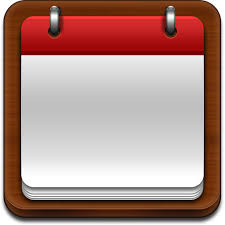
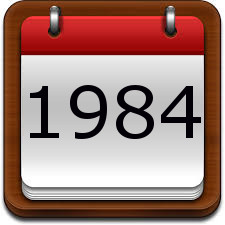
Pictures are now present on the My World and Sills area. Tool Tips are present of the Skills pictures

Changed region(s): [[0.3111, 0.3733, 0.6844, 0.6222], [0.7156, 0.3733, 0.9022, 0.6222], [0.1244, 0.3733, 0.28, 0.6222]]

diff --git a/index.html b/index.html
@@ -88,77 +88,122 @@
 		<h1 class="heading">Skills</h1>
 			<div class="row container">
 				<div class="col-lg-4 col-sm-6">
-					<a href="#skills" data-toggle="tooltip" title="Baby Jason was born!" alt="Baby Jason was born!">
-						<img src="images/1984.jpg"></img>
+					<a href="#skills" data-toggle="tooltip">
+						<img src="images/1984.jpg" title="Baby Jason was born!" alt="Baby Jason was born!">
 					</a>
 				</div>
 			
 			<!--Arrow-->
 			<!--2003-->
 				<div class="col-lg-4 col-sm-6">
-					<a href="#skills" data-toggle="tooltip" title="Graduated High School" alt="Graduated High School">
-						<img src="images/1984.jpg"></img>
+					<a href="#skills" data-toggle="tooltip">
+						<img src="images/2003.jpg" title="Graduated High School" alt="Graduated High School">
 					</a>
 				</div>
 				
-			<!--Arrow-->
-			<!--2004-->
+			<!--Arrow
+				 2004
 				<div class="col-lg-4 col-sm-6">
 					<a href="#skills" data-toggle="tooltip" title="Completed Commercial Dive School Program" alt="Completed Commercial Dive School Program">
-						<img src="images/1984.jpg"></img>
+						<img src="images/2004.jpg"></img>
 					</a>
-				</div>
-			</div>
-		<!--Arrow-->
+				</div> 
+				Arrow-->
 		
 		<!--Circle 2005-->
-		<p>Repaired boat docks as a Profession Diver</p>
-		
+				<div class="col-lg-4 col-sm-6">
+					<a href="#skills" data-toggle="tooltip">
+						<img src="images/2005.jpg" title="Repaired boat docks as a Professional Diver" alt="Repaired boat docks as a Profession Diver">
+					</a>
+				</div>		
 		<!--Arrow-->
 		
 		<!--Circle 2007-->
-		<p>Started in Sales</p>
-		
+				<div class="col-lg-4 col-sm-6">
+					<a href="#skills" data-toggle="tooltip">
+						<img src="images/2007.jpg" title="Began persuing a new career in sales" alt="Began persuing a new career in sales">
+					</a>
+				</div>			
 		<!--Arrow-->
 		
 		<!--Circle 2012-->
-		<p>Started working for Call-Em-All</p>
-		
+				<div class="col-lg-4 col-sm-6">
+					<a href="#skills" data-toggle="tooltip">
+						<img src="images/2012.jpg" title="Started working for Call-Em-All" alt="Started working for Call-Em-All">
+					</a>
+				</div>		
 		<!--Arrow-->
 		
 		<!--Circle 2015-->
-		<p>Started learning how to code</p>
+				<div class="col-lg-4 col-sm-6">
+					<a href="#skills" data-toggle="tooltip">
+						<img src="images/2015.jpg" title="Started learning how to code" alt="Started learning how to code">
+					</a>
+				</div>
+			</div>
 		</div>
 	</section>
 	
 	<section id="world">
 		<div class="world container">
 			<h1 class="heading">My World</h1>
-			<div class="serving">
-				<!-- Scrolling through pictures-->
-				<h3>Helping Others</h3> 
-				<p>Helping other people is a huge passon of mine. There 
-				are people both locally and aroud the world that need the
-				help from others for different reasons. One day (crossing my
-				fingers it doesn't happen) it could be me that needs help from others. 
+			<div id="myCarousel" class="carousel slide row" data-ride="carousel">
+				<ol class="carousel-indicators">
+					<li data-target="#myCarousel" data-slide-to="0" class="active"></li>
+					<li data-target="#myCarousel" data-slide-to="1"></li>
+					<li data-target="#myCarousel" data-slide-to="2"></li>
+				</ol>
+				
+			<!-- Wrapper for slides -->
+				<div class="carousel-inner volleyball col-lg-6" role="listbox">
+					<div class="item active">
+					  <img src="images/volleyball3.jpg" alt="Houston" title="Houston">
+					</div>
+
+					<div class="item">
+					  <img src="images/volleyball1.jpg" alt="Dallas" title="Dallas">
+					</div>
+
+					<div class="item">
+					  <img src="images/volleyball2.jpg" alt="All-Star" title="All-Star">
+					</div>
+				
+				   <!-- Left and right controls -->
+					<a class="left carousel-control" href="#myCarousel" role="button" data-slide="prev">
+						<span class="glyphicon glyphicon-chevron-left" aria-hidden="true"></span>
+						<span class="sr-only">Previous</span>
+					</a>
+					<a class="right carousel-control" href="#myCarousel" role="button" data-slide="next">
+						<span class="glyphicon glyphicon-chevron-right" aria-hidden="true"></span>
+						<span class="sr-only">Next</span>
+					</a>
+				</div>
+				<div class="volleyball col-lg-6">
+					<h3>Volleyball</h3>
+					<p>Playing volleyball has helped me learn a lot about
+					life. It as taught me patience, skills take time to develop.
+					Most important, in order to succeed you have to work with 
+					your teammates around you. 
+				</div>
 			</div>
-			<div class="volleyball">
-				<h3>Volleyball</h3>
-				<p>Playing volleyball has helped me learn a lot about
-				life. It as taught me patience, skills take time to develop.
-				Most important, in order to succeed you have to work with 
-				your teammates around you. 
-			</div>
+				<div class="serving">
+					<!-- Scrolling through pictures-->
+					<h3>Helping Others</h3> 
+					<p>Helping other people is a huge passon of mine. There 
+					are people both locally and aroud the world that need the
+					help from others for different reasons. One day (crossing my
+					fingers it doesn't happen) it could be me that needs help from others. 
+				</div>
 		</div>
 	</section>
 	
 	<section id="stalk">
-	<div class="heading container">
-		<h1 id="stalk">Stalk Me</h1>
-		
-		Phone: 505-205-3399
-		Email: ThomasJasonM1@Gmail.com
-	</div> 
+		<div class="heading container">
+			<h1>Stalk Me</h1>
+			
+			Phone: 505-205-3399
+			Email: ThomasJasonM1@Gmail.com
+		</div> 
 	</section>
 
 <script>

diff --git a/myStyles.css b/myStyles.css
@@ -39,5 +39,16 @@ header {
 	font-size: 30px;
 }
 
+.skills img {
+	width: 250px;
+	height: 250px;
+	margin: 20px auto 20px;
+}
+
+.volleyball {
+	width: 500px;
+	height: 350px;
+}
+
 
 
